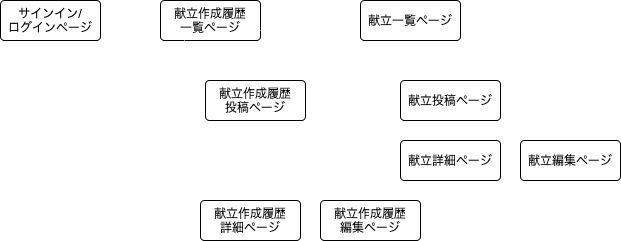
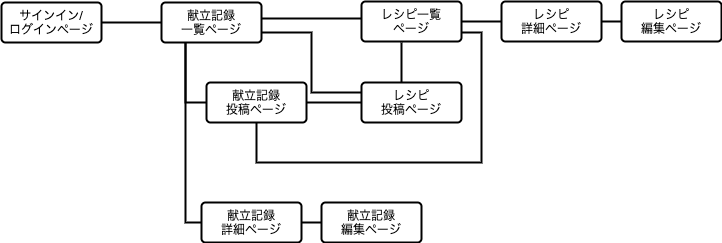
README追加

Changed region(s): [[0.0, 0.0, 1.0, 1.0], [0.6425, 0.7261, 1.0, 0.7552], [0.8261, 0.639, 1.0, 0.6971]]

diff --git a/README.md b/README.md
@@ -1,24 +1,15 @@
-# README
-
-This README would normally document whatever steps are necessary to get the
-application up and running.
-
-Things you may want to cover:
-
-* Ruby version
-
-* System dependencies
-
-* Configuration
-
-* Database creation
-
-* Database initialization
-
-* How to run the test suite
-
-* Services (job queues, cache servers, search engines, etc.)
-
-* Deployment instructions
-
-* ...
+| カテゴリー                                      | 備考                                                                                                                                                                                                                                                                                                                                                                                                                         |
+| ----------------------------------------------- | ---------------------------------------------------------------------------------------------------------------------------------------------------------------------------------------------------------------------------------------------------------------------------------------------------------------------------------------------------------------------------------------------------------------------------- |
+| アプリケーション名                              | Menu Records                                                                                                                                                                                                                                                                                                                                                                                                                 |
+| アプリケーション概要                            | 毎日の献立てを決める際、過去にどんなものを作ったか、どんなレシピだったかを記録することで献立てを決める手助けをするアプリケーション                                                                                                                                                                                                                                                                                           |
+| URL                                             | https://menu-records.herokuapp.com/                                                                                                                                                                                                                                                                                                                                                                                          |
+| テスト用アカウント                              | メールアドレス：test@gmail.com<br>パスワード：111111                                                                                                                                                                                                                                                                                                                                                                         |
+| 利用方法                                        | 1. トップページからユーザー新規登録を行う。<br>2. 「新しいレシピを登録する」からレシピ（タイトル、レシピ URL、画像、メモ）を登録する。<br>3. 「レシピ一覧」からレシピをクリックし、レシピの詳細を確認する。<br>4. 「献立を記録する」から献立内容（作成日、レシピ）を登録する。<br>5. 「献立記録」から献立作成履歴を確認することができる。<br>6. 「レシピ一覧」からレシピを作った回数、最後に作った日を確認することができる。 |
+| アプリケーションを作成した背景                  | 自身が毎日の献立て決めに悩んでいたことから、少しでもストレスを減らしたいと考えた。<br>既存のアプリケーションは作ったことのないメニューを探す際には便利だが、自分が今までどんな献立てを作ってきたか、どのレシピで作ったかを記録したかったので自作することにした。                                                                                                                                                             |
+| 洗い出した要件                                  | https://docs.google.com/spreadsheets/d/12PA1mgZ55Vkpj1scc748OMzBb2tkV5XH0-ykpk2csc8/edit?usp=sharing                                                                                                                                                                                                                                                                                                                         |
+| 実装した機能についての画像や GIF およびその説明 |                                                                                                                                                                                                                                                                                                                                                                                                                              |
+| 実装予定の機能                                  | メニューにタグ付け機能を実装予定                                                                                                                                                                                                                                                                                                                                                                                             |
+| データベース設計                                | [![Image from Gyazo](https://i.gyazo.com/a4c9314d66cfc8dfa24447d530a3ec01.png)](https://gyazo.com/a4c9314d66cfc8dfa24447d530a3ec01)                                                                                                                                                                                                                                                                                          |
+| 画面遷移図                                      | [![Image from Gyazo](https://i.gyazo.com/e32a90b815a874157b0beb92875d4fb0.png)](https://gyazo.com/e32a90b815a874157b0beb92875d4fb0)                                                                                                                                                                                                                                                                                          |
+| 開発環境                                        | ・フロントエンド：HTML,CSS / JavaScript<br>・バックエンド：Ruby（ver 2.5.1）/ Ruby on Rails（ver 6.0.4）<br>・インフラ：AWS（S3）,MySQL<br>・テスト：RSpec<br>・テキストエディタ：Visual Studio Code<br>・タスク管理：GitHub プロジェクトボード                                                                                                                                                                              |
+| ローカルでの動作方法                            | 以下、コマンドを順に実行してください。<br>% git clone https://github.com/rynao/menu_record.git<br>% cd menu_record<br>% bundle install<br>% yarn install                                                                                                                                                                                                                                                                     |
